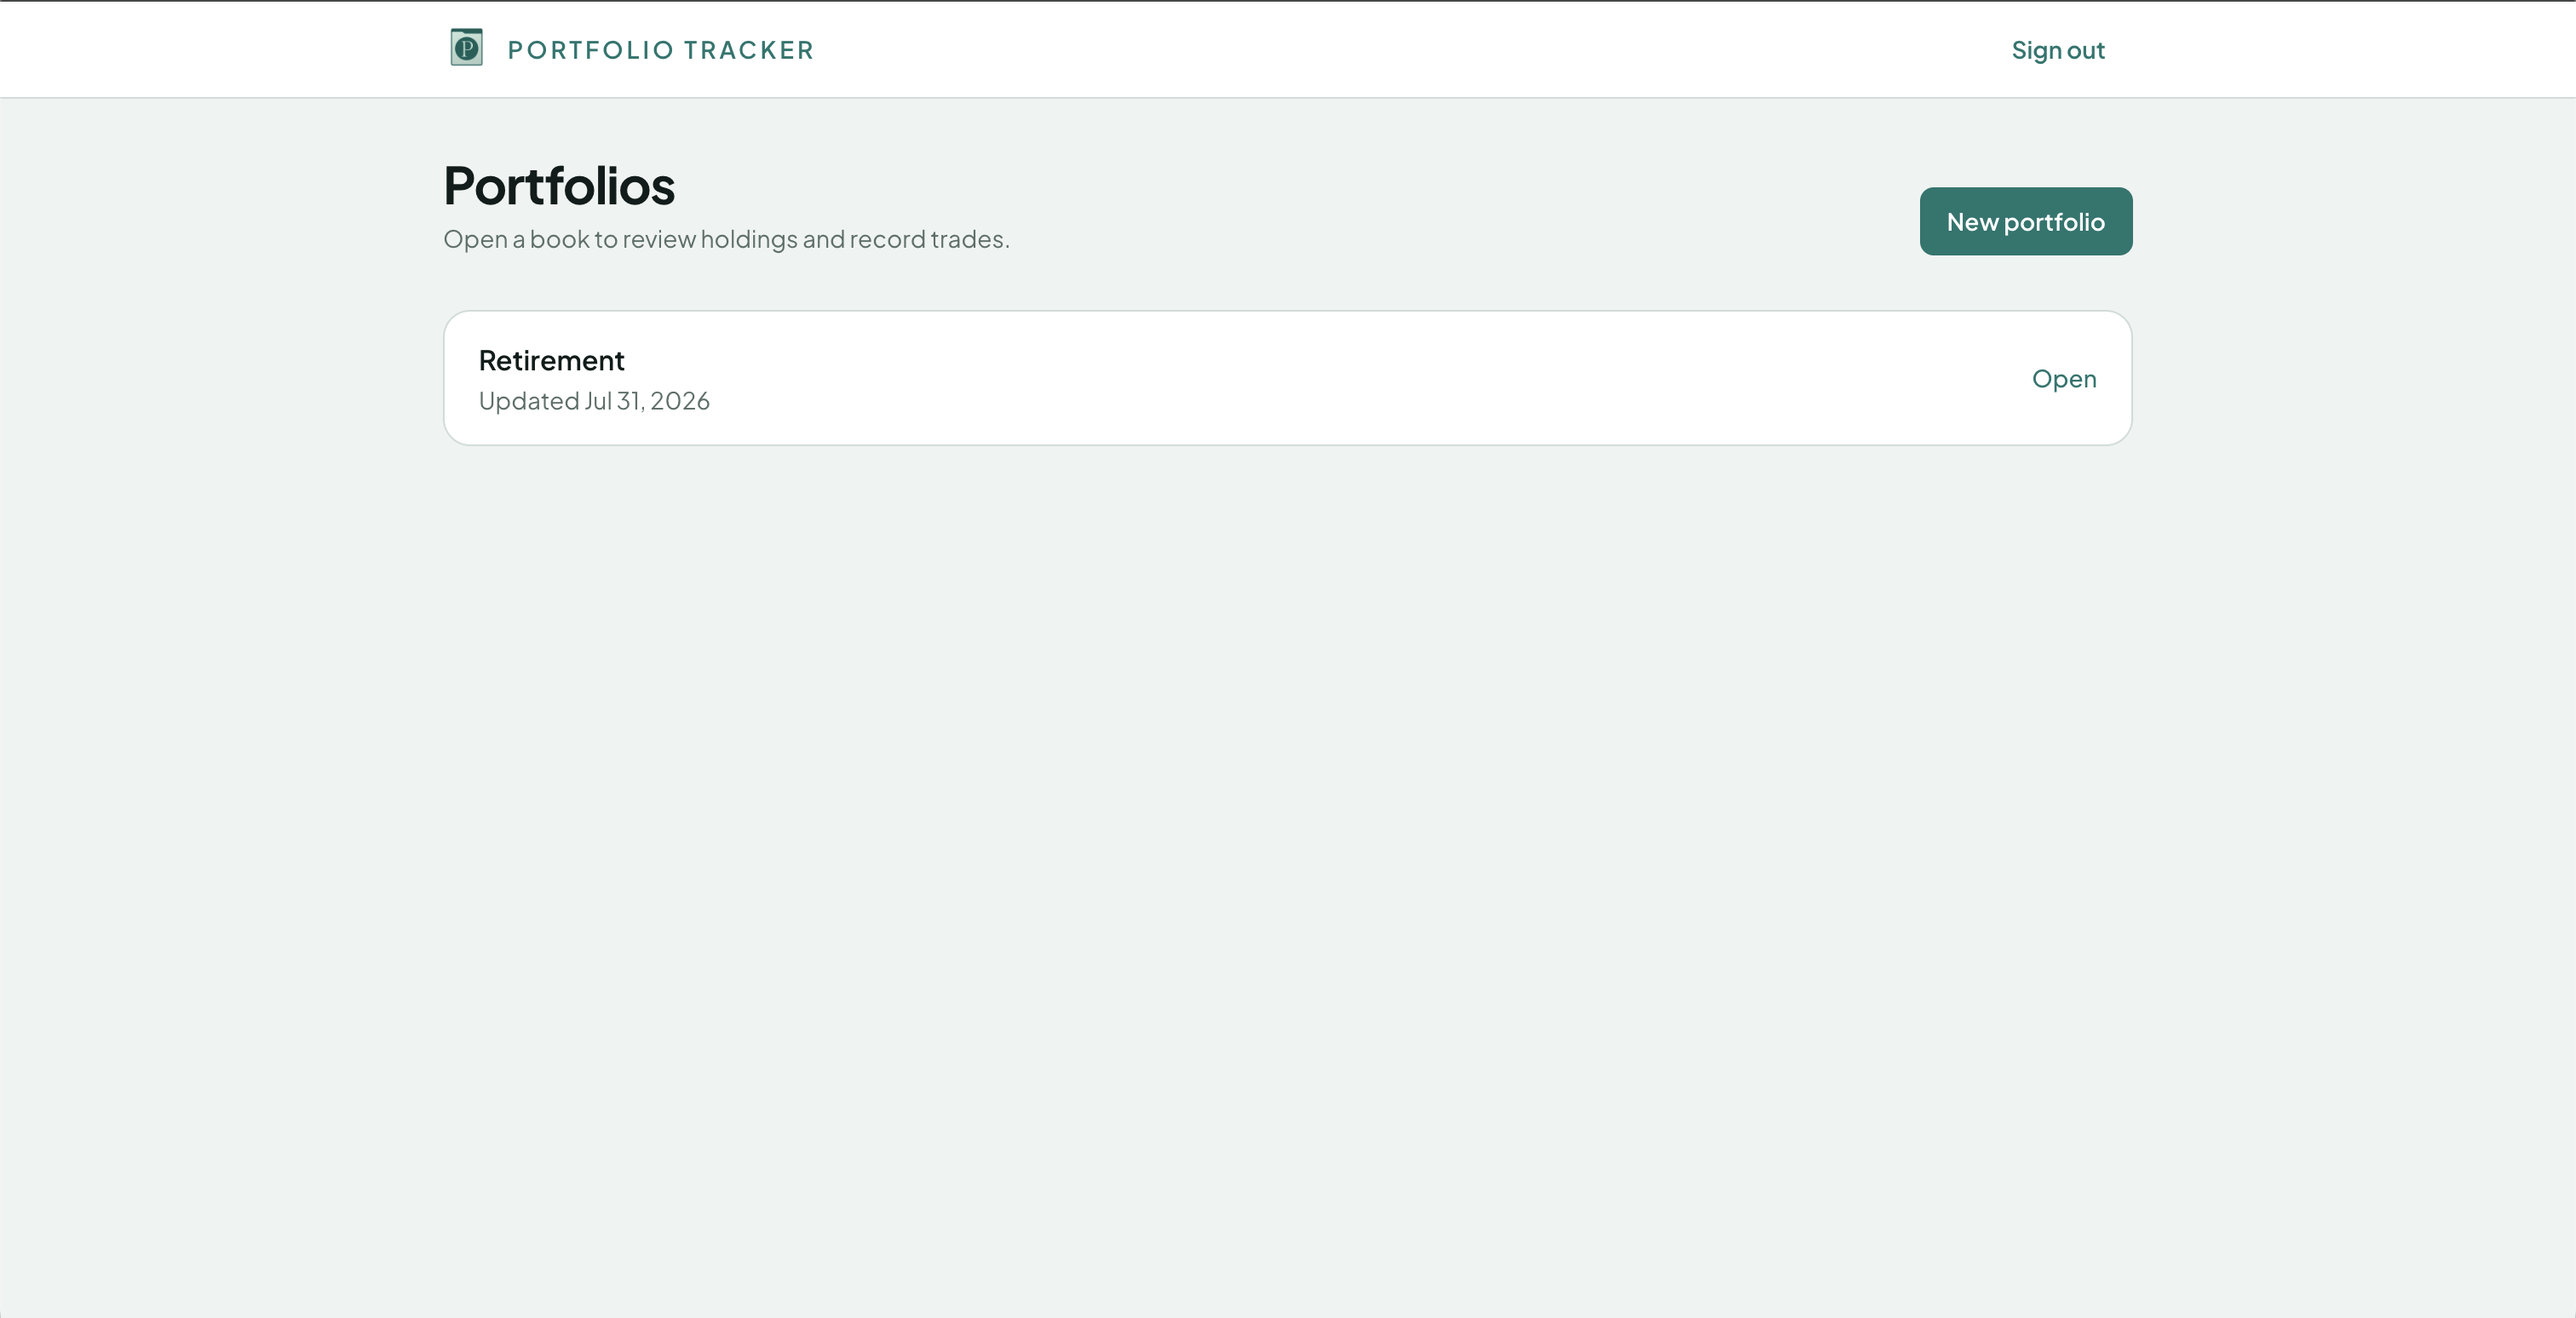
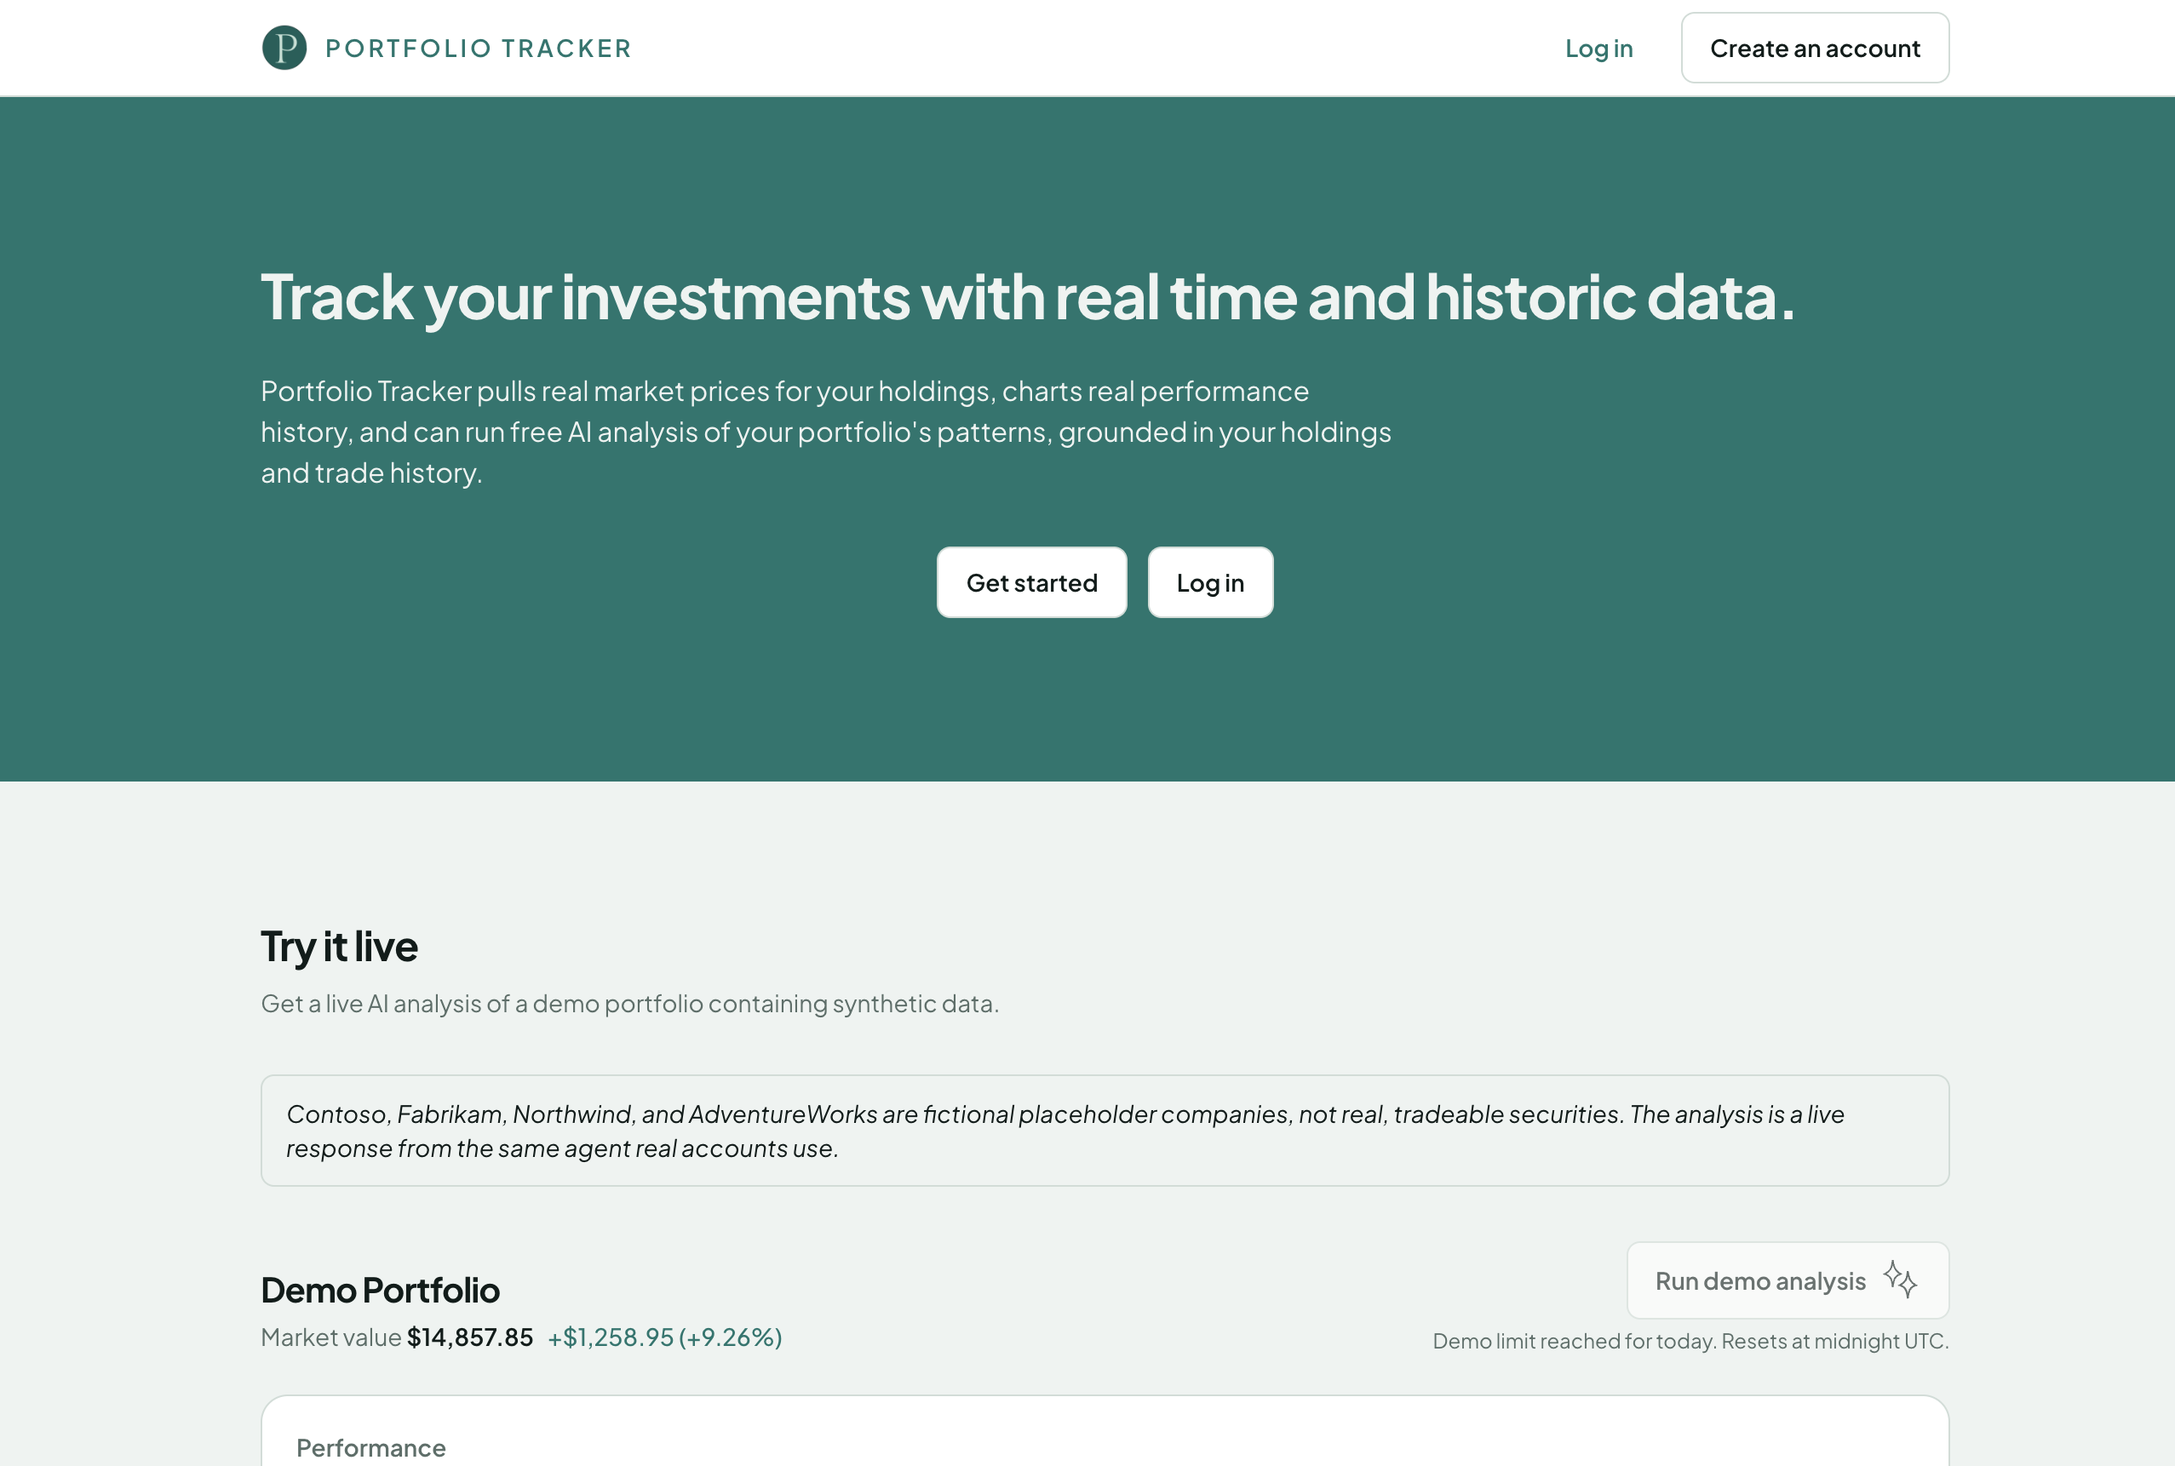
feat: update portfolio tracker information to reflect new agentic capabilities

diff --git a/src/data/projects.ts b/src/data/projects.ts
@@ -53,8 +53,17 @@ export const projects: Project[] = [
     name: 'PortfolioTracker',
     summary: 'Investment portfolio tracker with FastAPI and Vue 3.',
     description:
-      'Create accounts and portfolios, record buy/sell trades, and view holdings with weighted-average cost basis stored as integer cents. Layered FastAPI services, ownership-scoped routes, JWT auth, and a typed Vue 3 SPA with Pinia. Deployed API on Railway, SPA on Netlify, Postgres on Neon.',
-    tags: ['FastAPI', 'Vue 3', 'PostgreSQL', 'Pinia', 'JWT', 'Docker'],
+      'Create accounts and portfolios, record buy/sell trades, and analyze your portfolio with an AI agent powered by the Anthropic API. View holdings with weighted-average cost basis stored as integer cents. Layered FastAPI services, ownership-scoped routes, JWT auth, and a typed Vue 3 SPA with Pinia. Deployed API on Railway, SPA on Netlify, Postgres on Neon.',
+    tags: [
+      'FastAPI',
+      'Anthropic API',
+      'Custom AI Agent',
+      'Vue 3',
+      'PostgreSQL',
+      'Pinia',
+      'JWT',
+      'Docker',
+    ],
     logo: portfolioTrackerLogo,
     logoAlt: 'PortfolioTracker logo — folder with letter P',
     screenshot: portfolioTrackerScreenshot,

diff --git a/src/components/HomeHero.vue b/src/components/HomeHero.vue
@@ -19,8 +19,7 @@ import ResumeDownloadButton from '@/components/ResumeDownloadButton.vue'
         class="animate-fade-up mt-8 max-w-xl text-lg font-light leading-relaxed text-mist sm:text-xl"
         style="animation-delay: 0.15s"
       >
-        Software engineer based in Charlotte, NC, targeting Seattle area. Focused on building clean,
-        secure systems that work.
+        Software engineer based in Charlotte, NC, open to relocation.
       </p>
 
       <div class="animate-fade-up mt-8" style="animation-delay: 0.3s">

diff --git a/src/components/AboutSection.vue b/src/components/AboutSection.vue
@@ -8,8 +8,7 @@
         Software engineer based in Charlotte, NC, open to relocation. Currently targeting Seattle
         area. Graduated from WGU in 2026 with B.S. in Software Engineering. Bringing the attention
         to detail and always-learning mindset I learned as a lifelong multi-instrumentalist to
-        system architecture. I care about building clean and secure software with code that works,
-        not code that just looks good.
+        system architecture.
       </p>
     </div>
   </section>

diff --git a/src/components/ProjectsSection.vue b/src/components/ProjectsSection.vue
@@ -10,7 +10,7 @@ import { projects } from '@/data/projects'
         <h2 id="projects-heading" class="font-display text-4xl text-lilac sm:text-5xl">Projects</h2>
         <p class="mt-4 text-base leading-relaxed text-fog sm:text-lg">
           Selected work across full-stack apps and client-side tools. All project logos were
-          designed in Figma by me.
+          designed in Figma.
         </p>
       </div>
 
